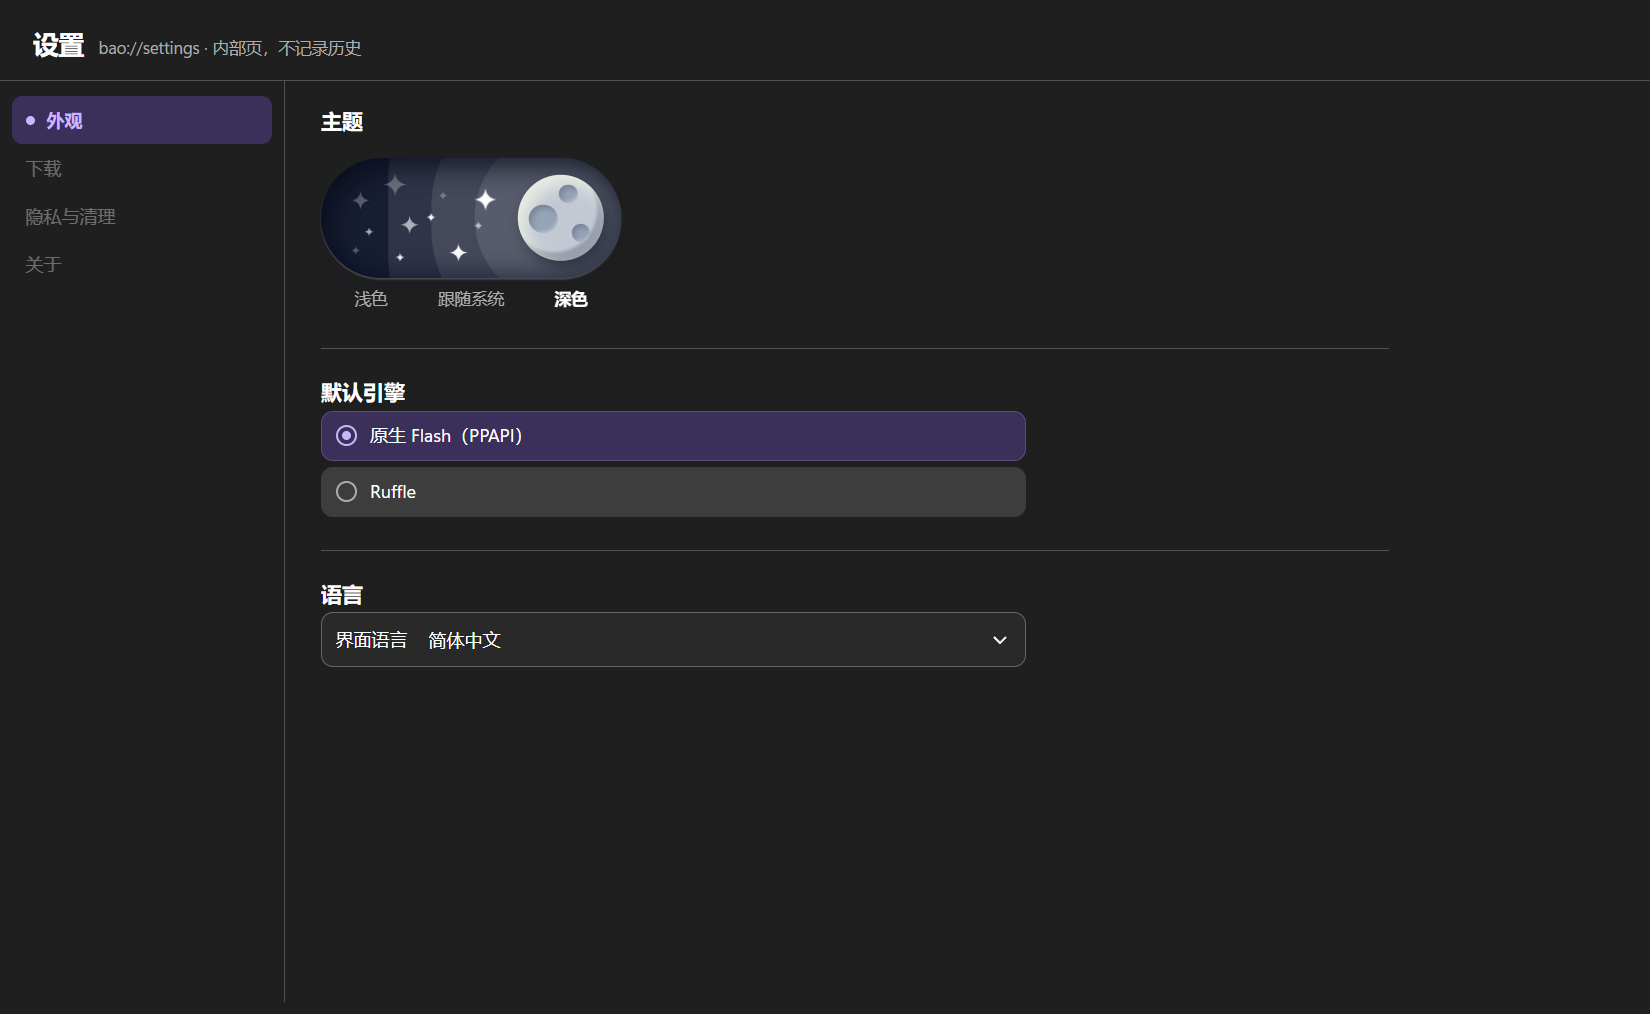
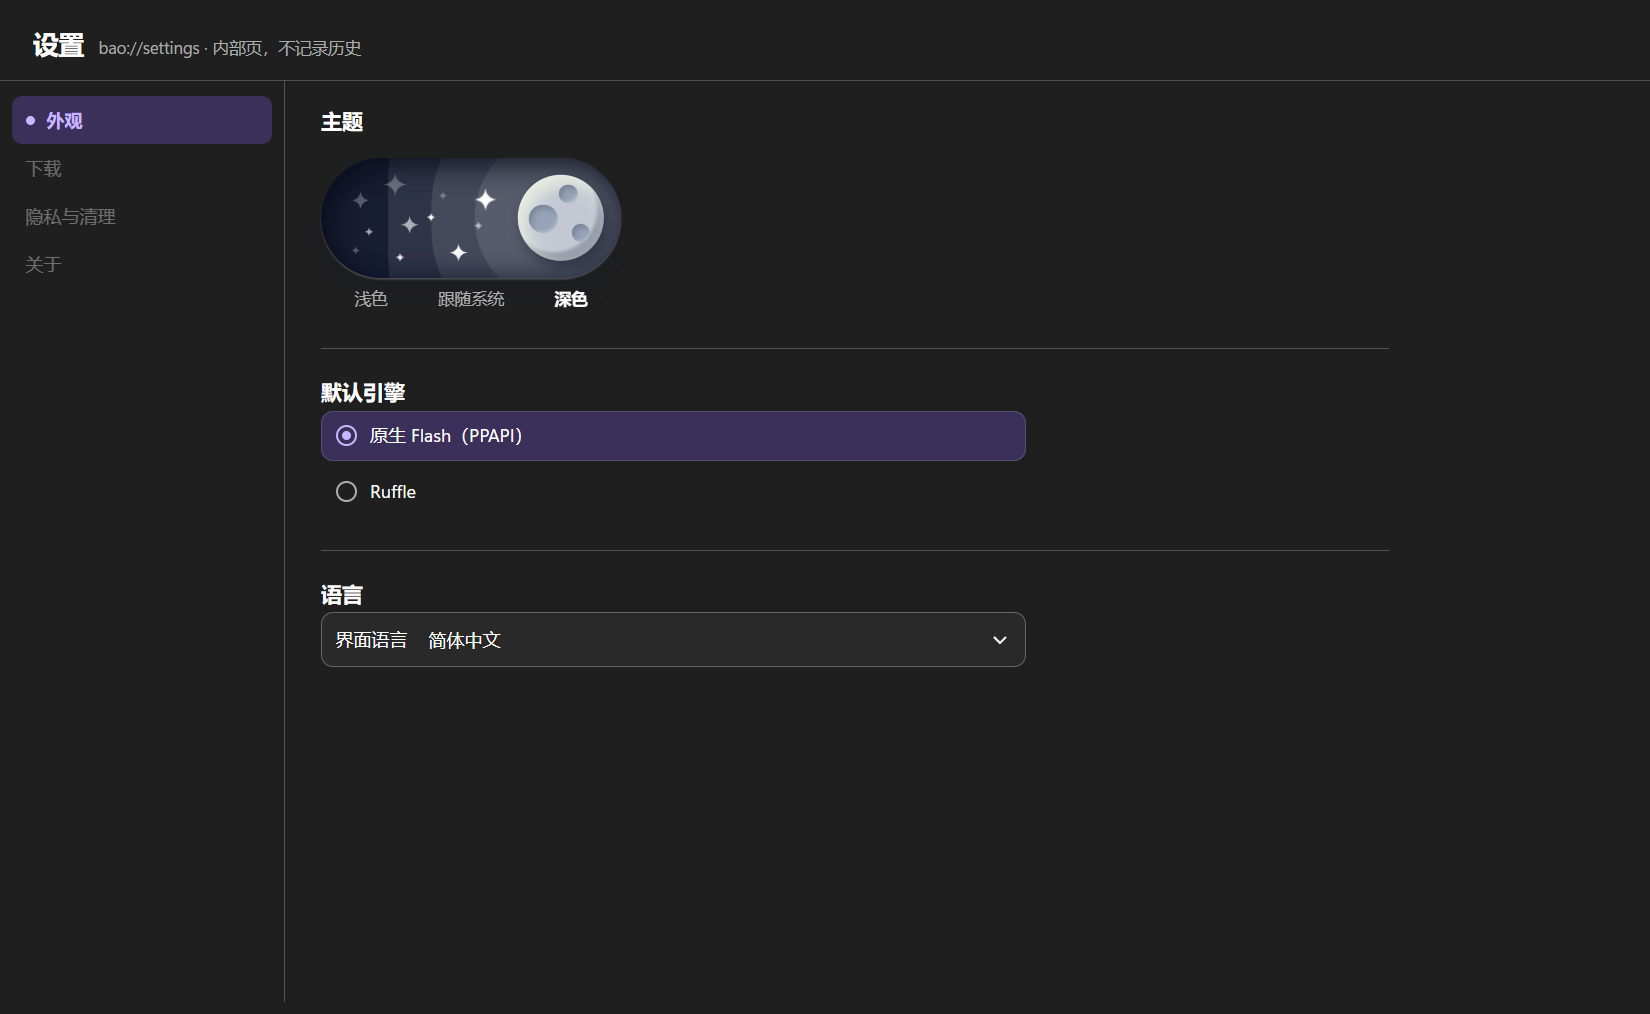
fix(app): 去掉主题开关焦点环外圈的矩形框
外壳的全局 button:focus-visible 会给按钮盒子画一圈 inset 阴影（矩形、无圆角），
飞窗与外壳共用同一个文档，所以主题开关的档位按钮外面多套了一个方框。
在 theme-switch.css 里同时清掉 outline 与 box-shadow，只保留胶囊形的焦点环。

实测：typecheck 通过；quick-settings + internal-page 4/4 通过；截图已更新。

Changed region(s): [[0.1855, 0.4586, 0.6182, 0.5197]]

diff --git a/app/src/renderer/theme-switch.css b/app/src/renderer/theme-switch.css
@@ -60,7 +60,10 @@
   color: var(--text-primary);
   font-weight: 600;
 }
-.bao-theme-switch .theme-stop:focus-visible { outline: none; }
+/* 焦点环只画在胶囊那一行。这里必须同时清掉 outline 与 box-shadow：
+   外壳的全局 `button:focus-visible`（App.vue）给按钮盒子画了一圈 inset 阴影（矩形、无圆角），
+   只清 outline 的话外面还会套一个方框。 */
+.bao-theme-switch .theme-stop:focus-visible { outline: none; box-shadow: none; }
 .bao-theme-switch .theme-stop:focus-visible::after {
   outline: 2px solid var(--brand-stroke);
   outline-offset: 0;
